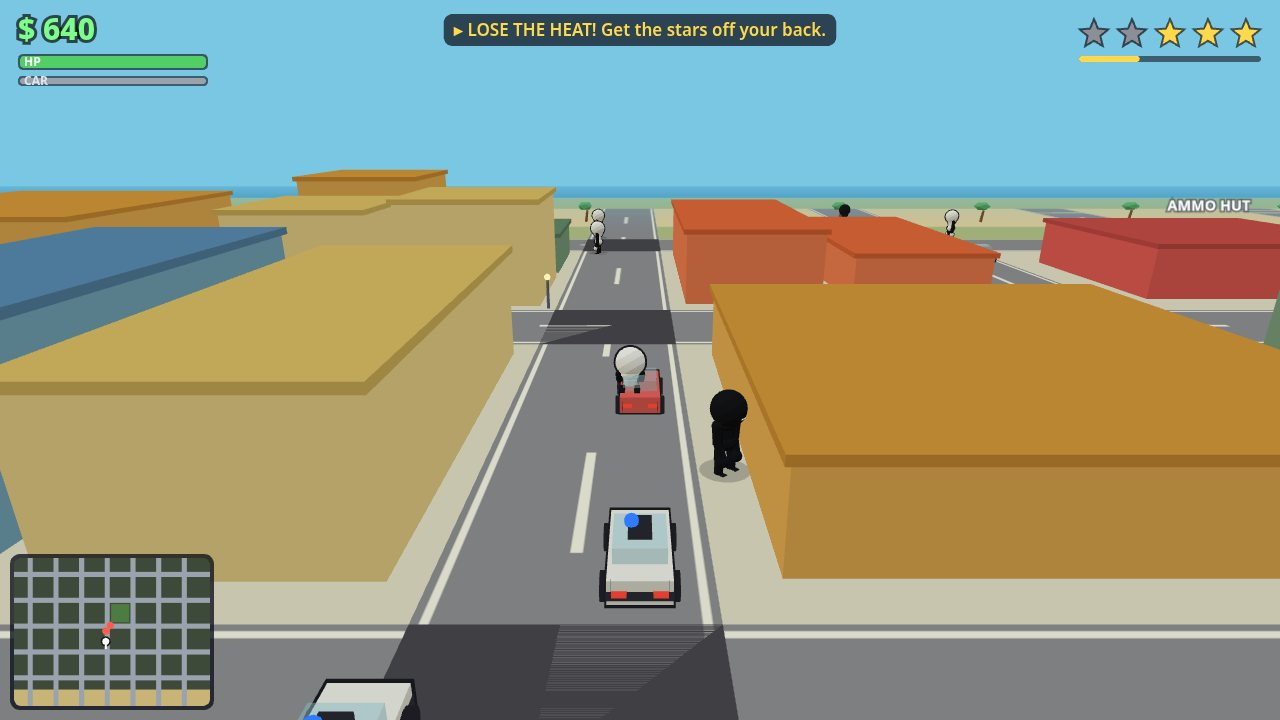
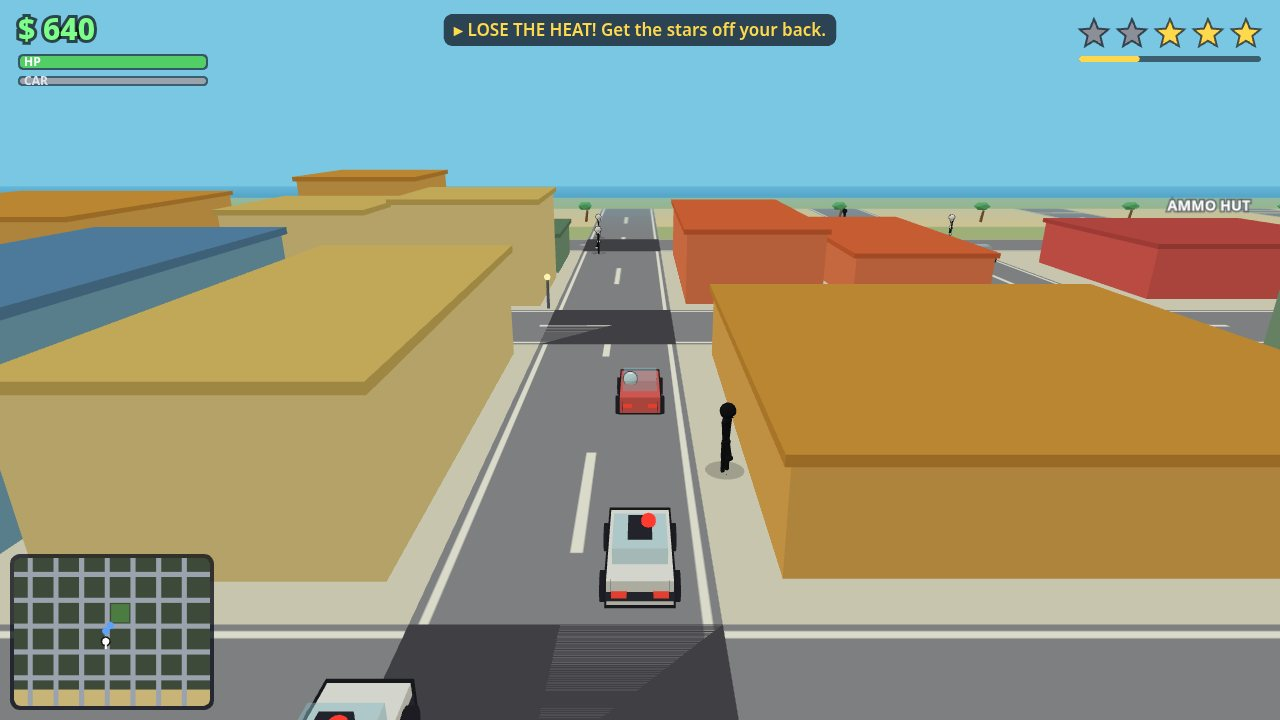
Slim the stick figures to match the reference sheet
Limbs and torso are now thin line-like strokes (limb radius ~46% of
before), shoulders/hips attach near the centre line, and the head is
about a fifth of the total height. Mouth, cap and gun rescaled to the
smaller head; seated drivers sink deeper so the head stays in the cabin.
Screenshots re-rendered.

diff --git a/game/src/stick3d.js b/game/src/stick3d.js
@@ -136,7 +136,9 @@ export function createFigure(opts = {}) {
   const black = opts.fill === 'black';
   const bodyMat = toonMat(black ? INK : 0xffffff);
   const limbMat = toonMat(INK);
-  const limbR = black ? 2.7 : 2.3;
+  // Lean proportions per the character reference sheet: limbs and torso are thin
+  // line-like strokes, and the round head is about a fifth of the total height.
+  const limbR = black ? 1.25 : 1.05;
 
   const group = new THREE.Group();
   const tilt = new THREE.Group();
@@ -144,7 +146,7 @@ export function createFigure(opts = {}) {
 
   // Soft blob shadow that stays flat on the ground whatever the body does.
   const shadow = new THREE.Mesh(
-    new THREE.CircleGeometry(13, 20),
+    new THREE.CircleGeometry(10, 20),
     new THREE.MeshBasicMaterial({ color: 0x000000, transparent: true, opacity: 0.2, depthWrite: false }),
   );
   shadow.rotation.x = -Math.PI / 2;
@@ -156,14 +158,14 @@ export function createFigure(opts = {}) {
   pelvis.position.y = HIP_H;
   tilt.add(pelvis);
   const pelvisBall = new THREE.Mesh(sphereGeo, bodyMat);
-  pelvisBall.scale.set(5.4, 4.6, 5.4);
+  pelvisBall.scale.set(2.1, 1.8, 2.1);
   pelvis.add(pelvisBall);
-  if (!black) outline(pelvisBall, 1.22);
+  if (!black) outline(pelvisBall, 1.3);
 
   // Legs: hip pivot -> thigh -> knee pivot -> shin -> foot.
   function makeLeg(side) {
     const hip = new THREE.Group();
-    hip.position.set(0, -0.5, side * 4.6);
+    hip.position.set(0, -0.5, side * 1.7);
     const thigh = segment(limbR, 8, limbMat, limbR * 1.05);
     hip.add(thigh);
     const knee = new THREE.Group();
@@ -171,8 +173,8 @@ export function createFigure(opts = {}) {
     thigh.add(knee);
     const shin = segment(limbR * 0.88, 8, limbMat, 0);
     knee.add(shin);
-    const foot = new THREE.Mesh(new THREE.BoxGeometry(6.4, 2.1, 3.4), limbMat);
-    foot.position.set(1.4, -8.4, 0);
+    const foot = new THREE.Mesh(new THREE.BoxGeometry(4.8, 1.2, 2.1), limbMat);
+    foot.position.set(1.1, -8.35, 0);
     shin.add(foot);
     pelvis.add(hip);
     return { hip, knee };
@@ -185,20 +187,20 @@ export function createFigure(opts = {}) {
   spine.position.y = 1;
   pelvis.add(spine);
   const torso = new THREE.Mesh(cylGeo, bodyMat);
-  torso.scale.set(4.3, 10.5, 4.3);
+  torso.scale.set(1.3, 10.5, 1.3);
   torso.position.y = 5.2;
   spine.add(torso);
-  if (!black) outline(torso, 1.16);
+  if (!black) outline(torso, 1.3);
   const chestBall = new THREE.Mesh(sphereGeo, bodyMat);
-  chestBall.scale.set(6.1, 5.2, 6.1);
+  chestBall.scale.set(2.3, 2.0, 2.3);
   chestBall.position.y = 10.4;
   spine.add(chestBall);
-  if (!black) outline(chestBall, 1.18);
+  if (!black) outline(chestBall, 1.25);
 
   // Arms: shoulder pivot -> upper arm -> elbow pivot -> forearm -> hand.
   function makeArm(side) {
     const shoulder = new THREE.Group();
-    shoulder.position.set(0, 9.6, side * 6.9);
+    shoulder.position.set(0, 9.8, side * 2.0);
     const upper = segment(limbR, 10, limbMat, limbR * 1.05);
     shoulder.add(upper);
     const elbow = new THREE.Group();
@@ -207,7 +209,7 @@ export function createFigure(opts = {}) {
     const fore = segment(limbR * 0.88, 9, limbMat, 0);
     elbow.add(fore);
     const hand = new THREE.Mesh(sphereGeo, black ? limbMat : bodyMat);
-    hand.scale.setScalar(3.1);
+    hand.scale.setScalar(1.6);
     hand.position.y = -9.6;
     fore.add(hand);
     if (!black) outline(hand, 1.25);
@@ -222,10 +224,10 @@ export function createFigure(opts = {}) {
   neck.position.y = 12.6;
   spine.add(neck);
   const head = new THREE.Mesh(sphereGeo, bodyMat);
-  head.scale.setScalar(9.3);
-  head.position.set(0.8, 4.6, 0);
+  head.scale.setScalar(4.1);
+  head.position.set(0.5, 3.0, 0);
   neck.add(head);
-  if (!black) outline(head, 1.13);
+  if (!black) outline(head, 1.16);
 
   // Mouth plane just in front of the face.
   const mouthMat = new THREE.MeshBasicMaterial({
@@ -234,27 +236,27 @@ export function createFigure(opts = {}) {
     color: black ? 0xffffff : INK,
   });
   mouthMat.map = getMouthTextures().neutral;
-  const mouth = new THREE.Mesh(new THREE.PlaneGeometry(11.5, 11.5), mouthMat);
-  mouth.position.set(9.6, 2.9, 0);
+  const mouth = new THREE.Mesh(new THREE.PlaneGeometry(5.6, 5.6), mouthMat);
+  mouth.position.set(4.75, 2.3, 0);
   mouth.rotation.y = Math.PI / 2;
   neck.add(mouth);
 
   if (opts.cap) {
-    const capMesh = new THREE.Mesh(new THREE.CylinderGeometry(6.9, 7.3, 2.6, 14), toonMat(opts.cap));
-    capMesh.position.set(0.9, 12.4, 0);
+    const capMesh = new THREE.Mesh(new THREE.CylinderGeometry(3.4, 3.6, 1.5, 14), toonMat(opts.cap));
+    capMesh.position.set(0.55, 6.35, 0);
     capMesh.rotation.z = -0.1;
     neck.add(capMesh);
-    const brim = new THREE.Mesh(new THREE.BoxGeometry(6.5, 0.9, 8.6), toonMat(opts.cap));
-    brim.position.set(6.4, 11.2, 0);
+    const brim = new THREE.Mesh(new THREE.BoxGeometry(3.6, 0.5, 4.6), toonMat(opts.cap));
+    brim.position.set(3.6, 5.5, 0);
     neck.add(brim);
   }
 
   // A little pistol that appears in the right hand when the figure is armed.
   const gun = new THREE.Group();
-  const gunBody = new THREE.Mesh(new THREE.BoxGeometry(11, 3.4, 2.6), basicMat(0x26262c));
-  gunBody.position.set(4.5, 0.6, 0);
-  const gunGrip = new THREE.Mesh(new THREE.BoxGeometry(3.2, 5.5, 2.4), basicMat(0x26262c));
-  gunGrip.position.set(0.5, -2.6, 0);
+  const gunBody = new THREE.Mesh(new THREE.BoxGeometry(8.5, 2.0, 1.7), basicMat(0x26262c));
+  gunBody.position.set(3.4, 0.35, 0);
+  const gunGrip = new THREE.Mesh(new THREE.BoxGeometry(2.0, 3.6, 1.6), basicMat(0x26262c));
+  gunGrip.position.set(0.3, -1.7, 0);
   gun.add(gunBody, gunGrip);
   gun.position.y = -9.6;
   gun.visible = false;
@@ -317,7 +319,7 @@ export function createFigure(opts = {}) {
     // --- Vertical: bob from the gait, sink from crouch / seat / fall. ---
     const bob = Math.abs(Math.sin(ph)) * 1.5 * gait;
     const breathe = Math.sin(time * 1.7 + fig.swaySeed) * 0.22 * (1 - gait);
-    pelvis.position.y = HIP_H + bob + breathe - c.crouch * 6.5 - c.drive * 8.5;
+    pelvis.position.y = HIP_H + bob + breathe - c.crouch * 6.5 - c.drive * 13;
     pelvis.rotation.x = Math.sin(ph * 2 + fig.swaySeed) * 0.03 * gait; // gentle roll
     pelvis.rotation.y = Math.sin(time * 0.43 + fig.swaySeed) * 0.05 * (1 - gait); // idle weight shift
 
@@ -335,7 +337,7 @@ export function createFigure(opts = {}) {
     spine.rotation.x = Math.sin(ph * 2) * 0.028 * gait;
     neck.rotation.z = 0.06 * gait + c.crouch * -0.12; // head counter-tilt keeps the face level
     neck.rotation.y = Math.sin(time * 0.31 + fig.swaySeed * 2) * 0.14 * (1 - gait) * (1 - c.aim);
-    chestBall.scale.y = 5.2 + Math.sin(time * 1.7 + fig.swaySeed) * 0.14 * (1 - gait); // breathing
+    chestBall.scale.y = 2.0 + Math.sin(time * 1.7 + fig.swaySeed) * 0.07 * (1 - gait); // breathing
 
     // --- Arms: swing opposite to the legs, elbows softly bent. ---
     let shL = sw2 * amp * 0.85;
@@ -404,7 +406,8 @@ export function createFigure(opts = {}) {
 
     // --- Whole-body fall when knocked out. ---
     tilt.rotation.x = -1.5 * easeOut(Math.min(1, c.down));
-    tilt.position.y = -2 * c.down;
+    // Seated drivers also sink at the root, so the head stays inside the cabin.
+    tilt.position.y = -2 * c.down - 5 * c.drive;
     shadow.material.opacity = 0.2 * (1 - c.drive);
   }
 
